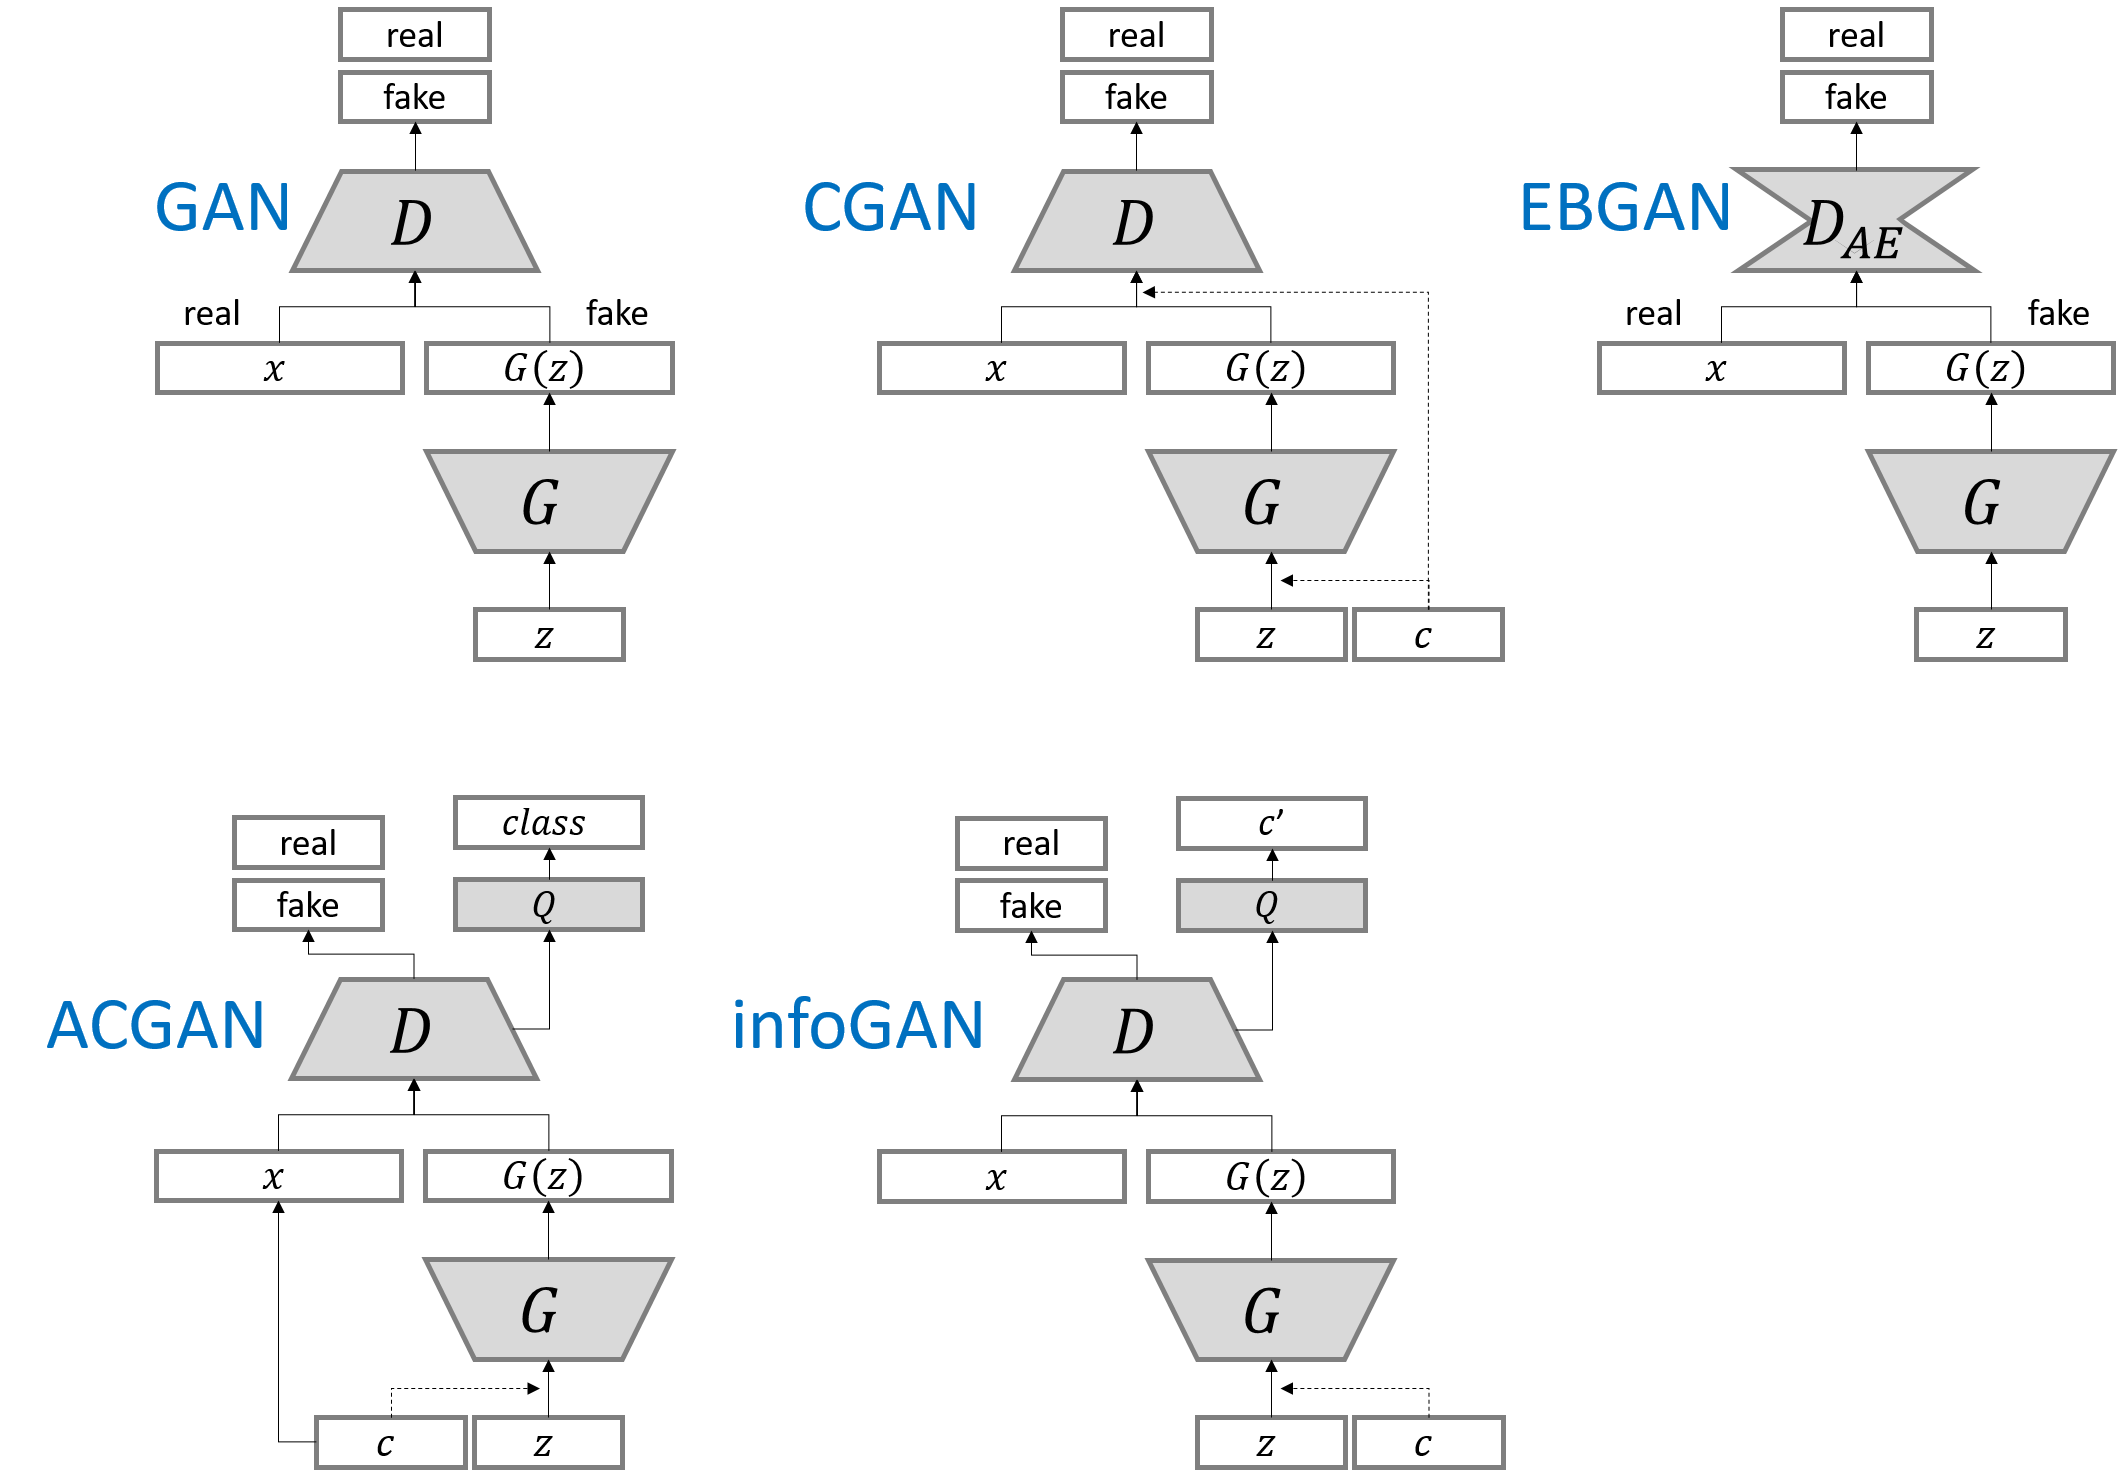
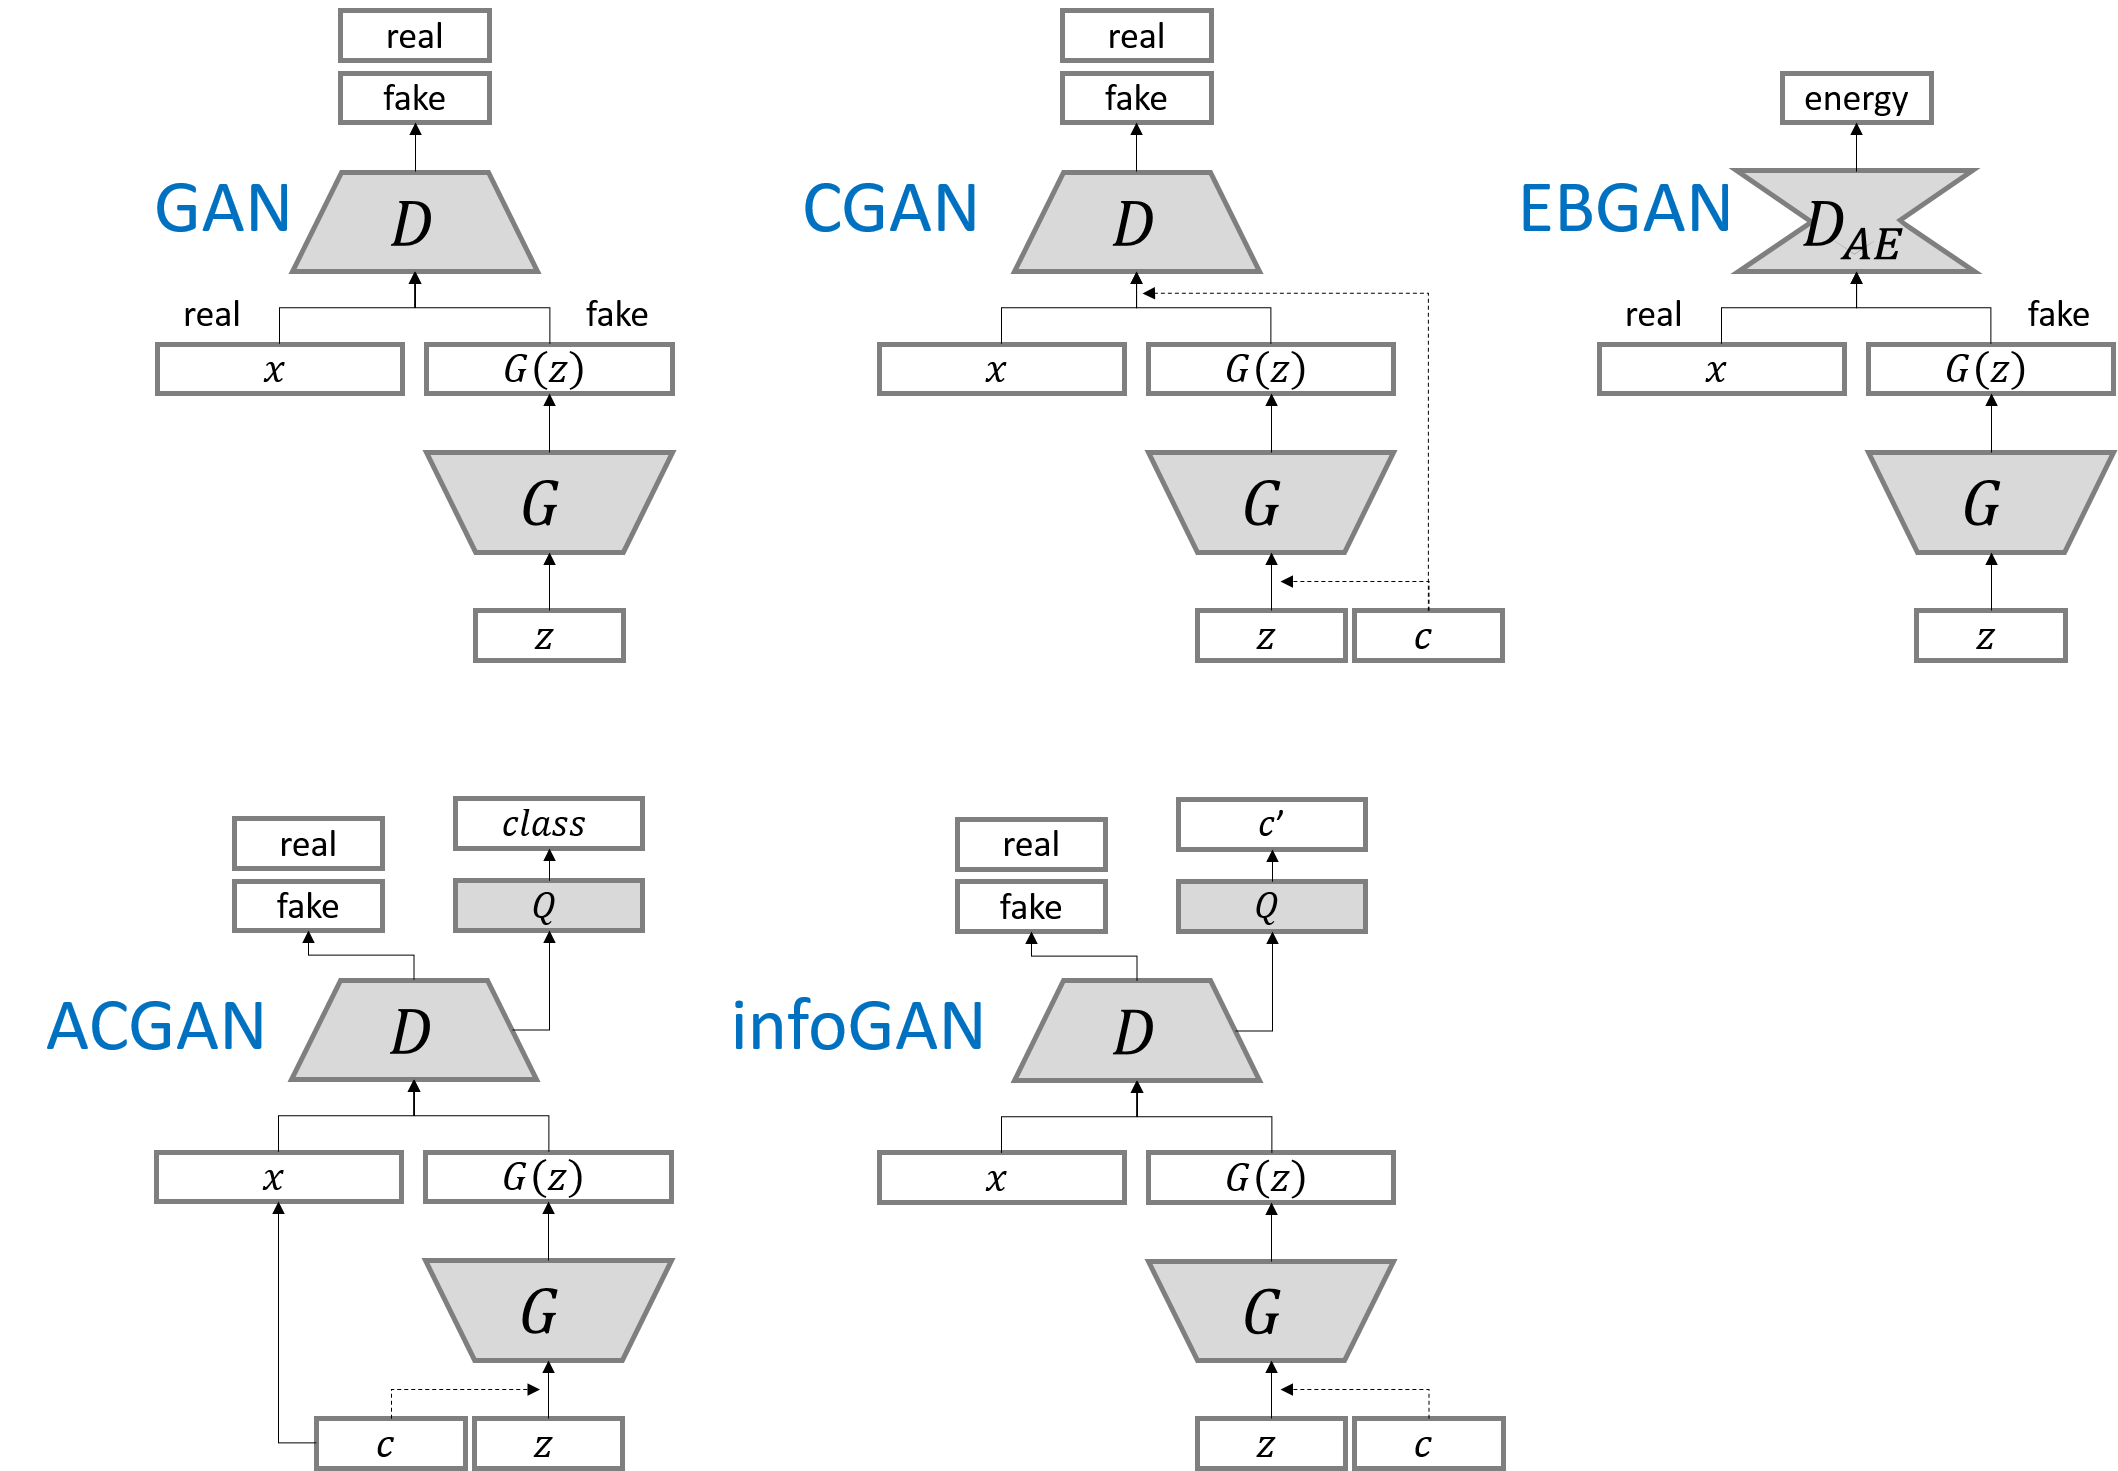
correct bug in model constructors and EGBAN-architecture
correct bug in model constructors and EGBAN-architecture

diff --git a/WGAN_GP.py b/WGAN_GP.py
@@ -19,7 +19,7 @@ class WGAN_GP(object):
         self.batch_size = batch_size
         self.model_name = "WGAN-GP"     # name for checkpoint
 
-        if dataset_name == 'mnist' or 'fashion-mnist':
+        if dataset_name == 'mnist' or dataset_name == 'fashion-mnist':
             # parameters
             self.input_height = 28
             self.input_width = 28

diff --git a/infoGAN.py b/infoGAN.py
@@ -19,7 +19,7 @@ class infoGAN(object):
         self.batch_size = batch_size
         self.model_name = "infoGAN"     # name for checkpoint
 
-        if dataset_name == 'mnist' or 'fashion-mnist':
+        if dataset_name == 'mnist' or dataset_name == 'fashion-mnist':
             # parameters
             self.input_height = 28
             self.input_width = 28

diff --git a/DRAGAN.py b/DRAGAN.py
@@ -19,7 +19,7 @@ class DRAGAN(object):
         self.batch_size = batch_size
         self.model_name = "DRAGAN"     # name for checkpoint
 
-        if dataset_name == 'mnist' or 'fashion-mnist':
+        if dataset_name == 'mnist' or dataset_name == 'fashion-mnist':
             # parameters
             self.input_height = 28
             self.input_width = 28

diff --git a/ACGAN.py b/ACGAN.py
@@ -19,7 +19,7 @@ class ACGAN(object):
         self.batch_size = batch_size
         self.model_name = "ACGAN"     # name for checkpoint
 
-        if dataset_name == 'mnist' or 'fashion-mnist':
+        if dataset_name == 'mnist' or dataset_name == 'fashion-mnist':
             # parameters
             self.input_height = 28
             self.input_width = 28

diff --git a/BEGAN.py b/BEGAN.py
@@ -19,7 +19,7 @@ class BEGAN(object):
         self.batch_size = batch_size
         self.model_name = "BEGAN"     # name for checkpoint
 
-        if dataset_name == 'mnist' or 'fashion-mnist':
+        if dataset_name == 'mnist' or dataset_name == 'fashion-mnist':
             # parameters
             self.input_height = 28
             self.input_width = 28

diff --git a/EBGAN.py b/EBGAN.py
@@ -19,7 +19,7 @@ class EBGAN(object):
         self.batch_size = batch_size
         self.model_name = "EBGAN"     # name for checkpoint
 
-        if dataset_name == 'mnist' or 'fashion-mnist':
+        if dataset_name == 'mnist' or dataset_name == 'fashion-mnist':
             # parameters
             self.input_height = 28
             self.input_width = 28

diff --git a/LSGAN.py b/LSGAN.py
@@ -19,7 +19,7 @@ class LSGAN(object):
         self.batch_size = batch_size
         self.model_name = "LSGAN"     # name for checkpoint
 
-        if dataset_name == 'mnist' or 'fashion-mnist':
+        if dataset_name == 'mnist' or dataset_name == 'fashion-mnist':
             # parameters
             self.input_height = 28
             self.input_width = 28

diff --git a/CGAN.py b/CGAN.py
@@ -19,7 +19,7 @@ class CGAN(object):
         self.batch_size = batch_size
         self.model_name = "CGAN"     # name for checkpoint
 
-        if dataset_name == 'mnist' or 'fashion-mnist':
+        if dataset_name == 'mnist' or dataset_name == 'fashion-mnist':
             # parameters
             self.input_height = 28
             self.input_width = 28

diff --git a/CVAE.py b/CVAE.py
@@ -21,7 +21,7 @@ class CVAE(object):
         self.batch_size = batch_size
         self.model_name = "CVAE"     # name for checkpoint
 
-        if dataset_name == 'mnist' or 'fashion-mnist':
+        if dataset_name == 'mnist' or dataset_name == 'fashion-mnist':
             # parameters
             self.input_height = 28
             self.input_width = 28

diff --git a/WGAN.py b/WGAN.py
@@ -19,7 +19,7 @@ class WGAN(object):
         self.batch_size = batch_size
         self.model_name = "WGAN"     # name for checkpoint
 
-        if dataset_name == 'mnist' or 'fashion-mnist':
+        if dataset_name == 'mnist' or dataset_name == 'fashion-mnist':
             # parameters
             self.input_height = 28
             self.input_width = 28

diff --git a/GAN.py b/GAN.py
@@ -19,7 +19,7 @@ class GAN(object):
         self.batch_size = batch_size
         self.model_name = "GAN"     # name for checkpoint
 
-        if dataset_name == 'mnist' or 'fashion-mnist':
+        if dataset_name == 'mnist' or dataset_name == 'fashion-mnist':
             # parameters
             self.input_height = 28
             self.input_width = 28

diff --git a/VAE.py b/VAE.py
@@ -21,7 +21,7 @@ class VAE(object):
         self.batch_size = batch_size
         self.model_name = "VAE"     # name for checkpoint
 
-        if dataset_name == 'mnist' or 'fashion-mnist':
+        if dataset_name == 'mnist' or dataset_name == 'fashion-mnist':
             # parameters
             self.input_height = 28
             self.input_width = 28
